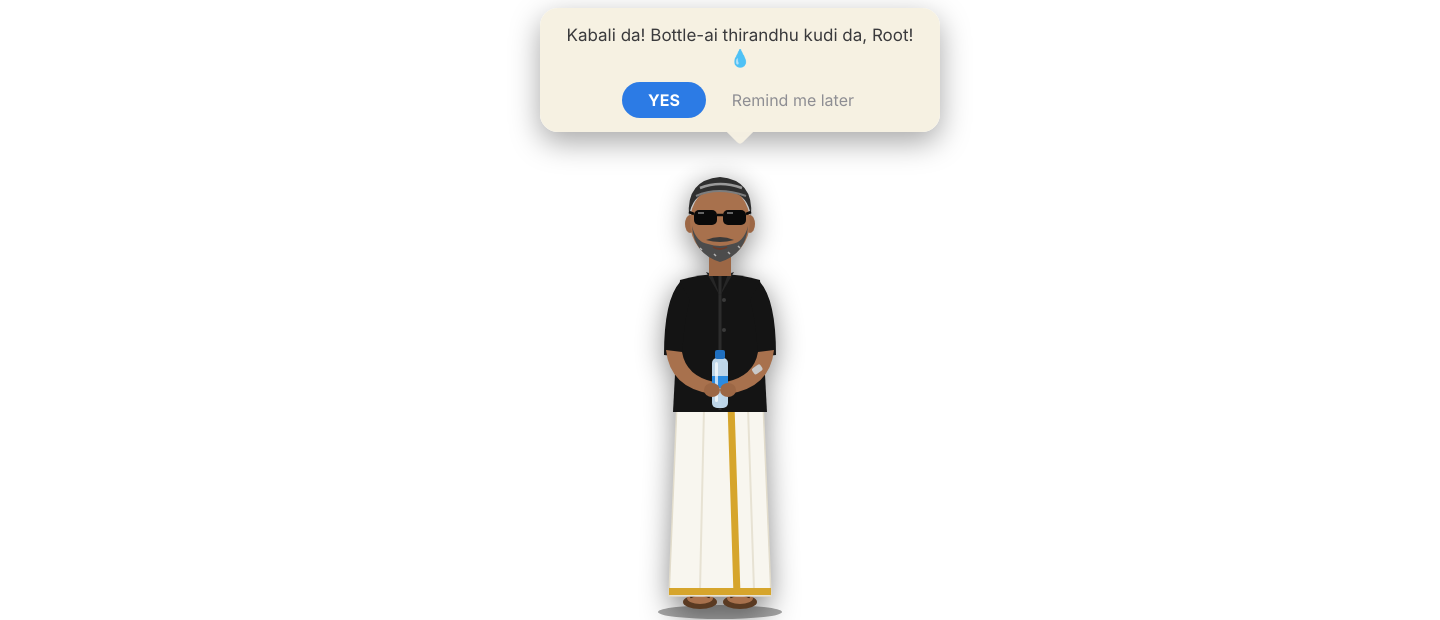
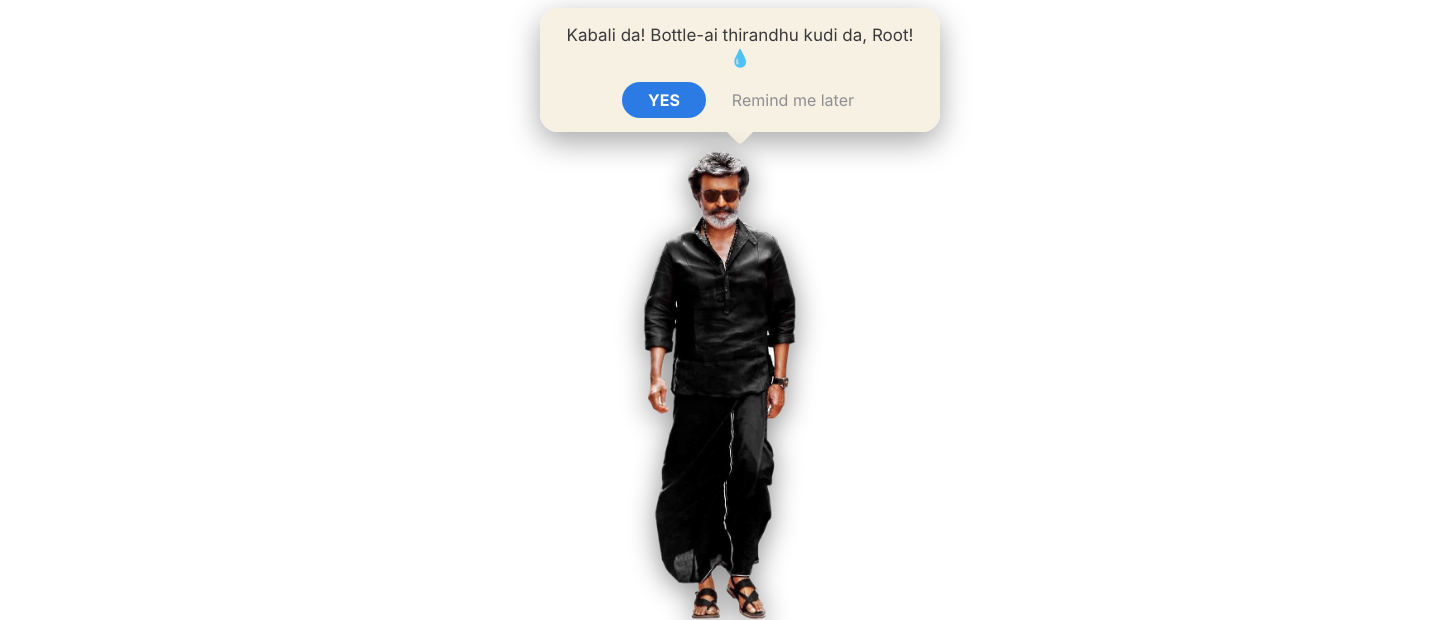
Use Rajinikanth photo as the character
Adds assets/character.png (white background removed) so the overlay
shows the photo instead of the cartoon. Drops mirroring while walking
left since the photo faces the camera.

Claude-Session: https://claude.ai/code/session_01WXbiP563WEqUmaNAeeU3jy

Changed region(s): [[0.4375, 0.2452, 0.5625, 1.0]]

diff --git a/overlay/overlay.js b/overlay/overlay.js
@@ -47,14 +47,11 @@ function place(x, animate) {
   return wait(ms);
 }
 
-async function walkTo(x, faceLeft) {
+async function walkTo(x) {
   character.classList.add('walking');
   useImage('walk');
-  // Custom images usually face right; flip them when walking left.
-  custom.style.transform = faceLeft ? 'scaleX(-1)' : '';
   await place(x, true);
   character.classList.remove('walking');
-  custom.style.transform = '';
   useImage('stand');
 }
 
@@ -72,7 +69,7 @@ async function enter(data) {
   await wait(50);
 
   const centre = Math.round(window.innerWidth / 2 - WIDTH / 2);
-  await walkTo(centre, false);
+  await walkTo(centre);
   await wait(250);
 
   line.textContent = fill(pick(LINES));
@@ -90,7 +87,7 @@ async function leave(text, toRight) {
 
   await wait(1800);
   bubble.classList.add('hidden');
-  await walkTo(toRight ? window.innerWidth + 80 : -WIDTH - 80, !toRight);
+  await walkTo(toRight ? window.innerWidth + 80 : -WIDTH - 80);
   character.classList.remove('happy');
   busy = false;
   window.thalaivar.done();
